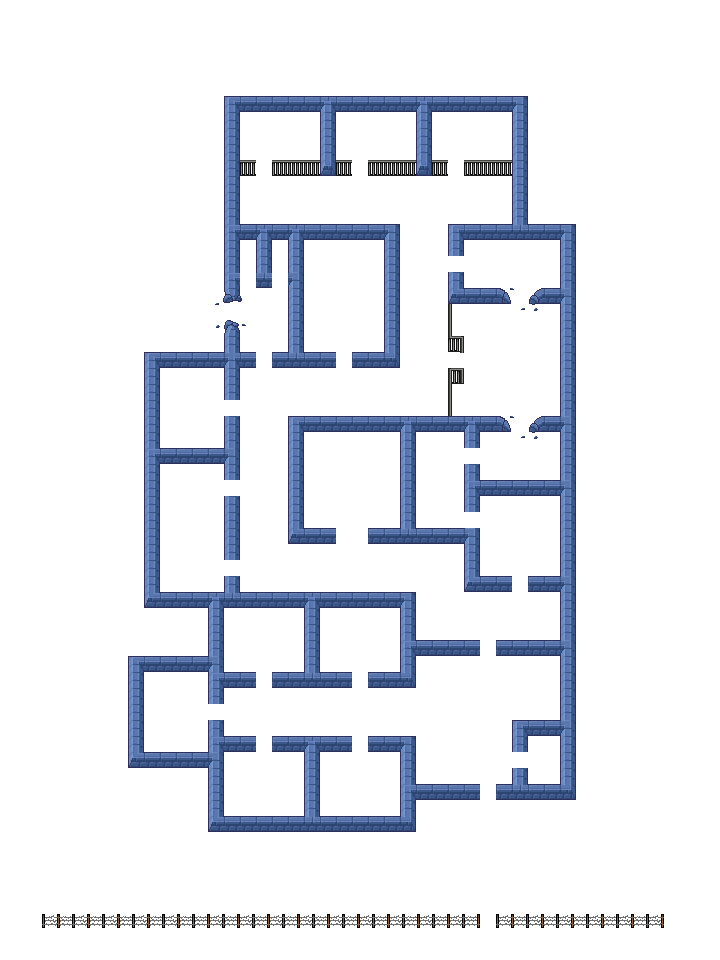
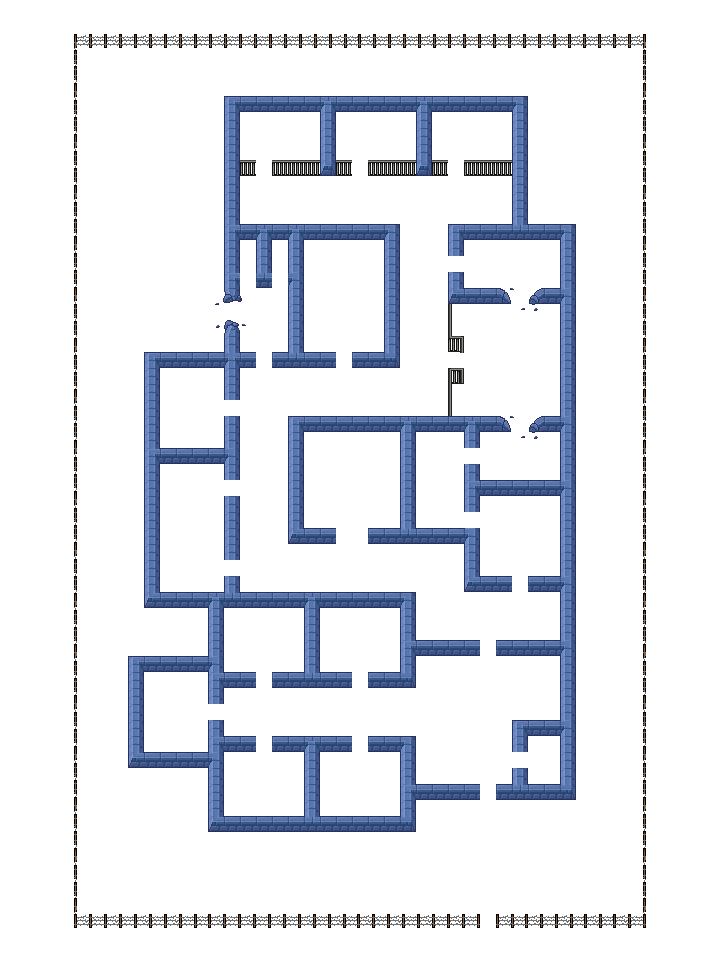
0.3.30.9 lvl002 creation of barbed wires

Changed region(s): [[0.0611, 0.0312, 0.9167, 0.9688]]

diff --git a/ReversedRebecca/src/com/sunsigne/reversedrebecca/Infos.java b/ReversedRebecca/src/com/sunsigne/reversedrebecca/Infos.java
@@ -5,7 +5,7 @@ import javax.swing.ImageIcon;
 public class Infos {
 
 	public static final String NAME = "Reversed Rebecca";
-	public static final String VERSION = "v.0.3.30.8";
+	public static final String VERSION = "v.0.3.30.9";
 	public static final boolean IS_DEV_VERSION = System.getProperty("java.class.path").contains("\\git\\");
 	public static final ImageIcon ICON = new ImageIcon("icon.png");
 
